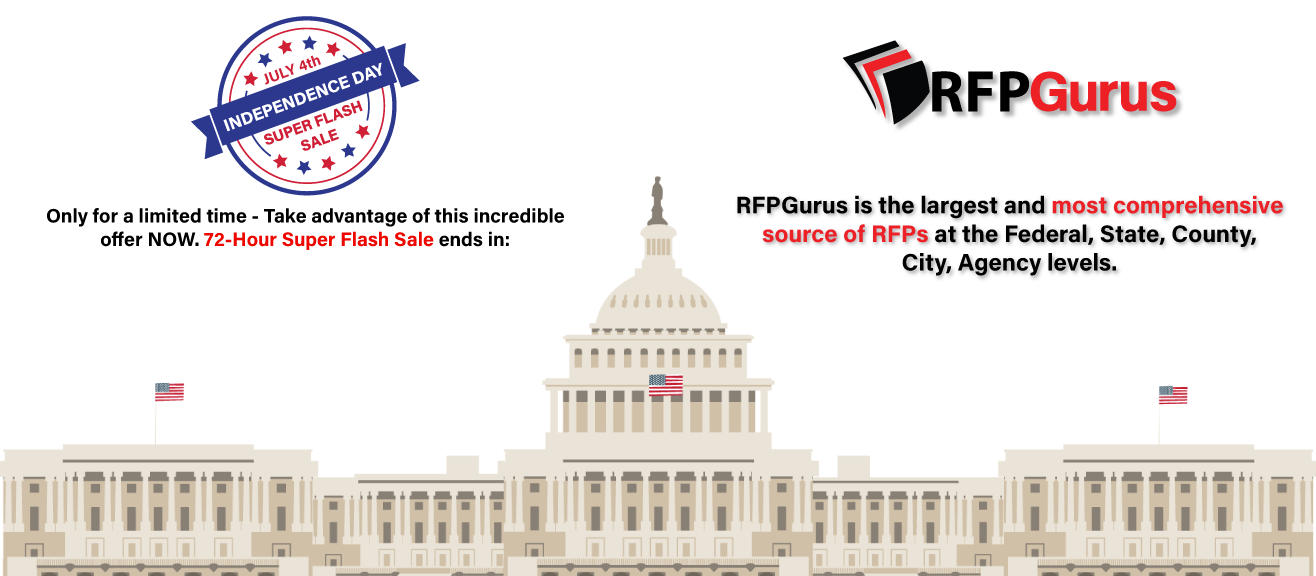
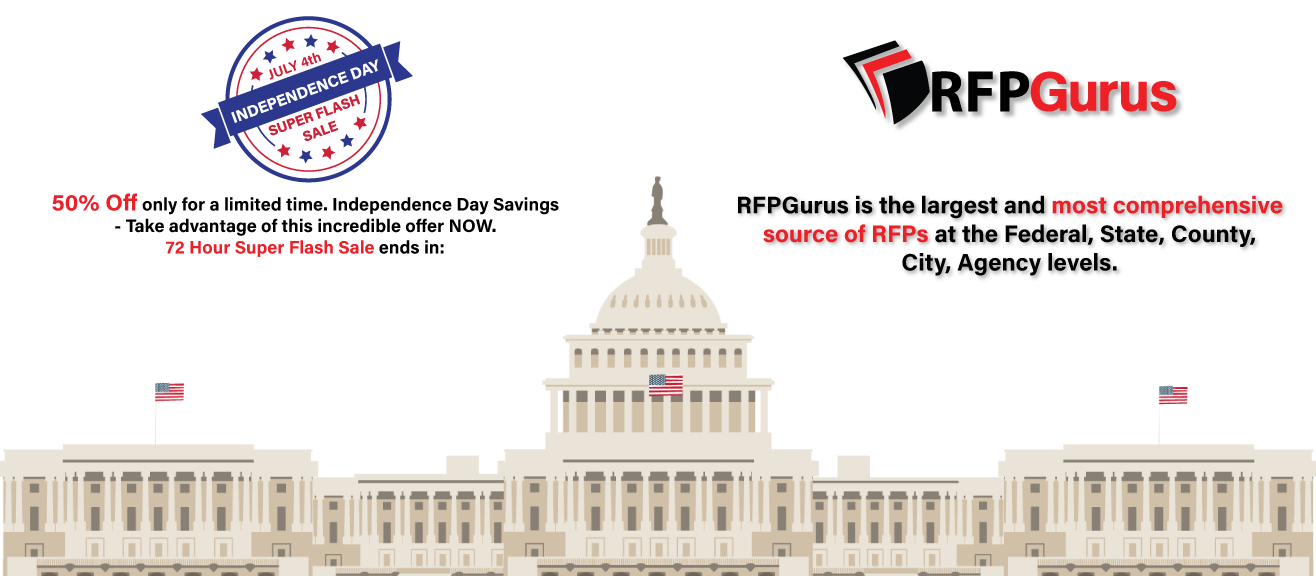
sdfsfsf

diff --git a/src/app/components/other/pricing/pricing.component.html b/src/app/components/other/pricing/pricing.component.html
@@ -7,7 +7,9 @@
     <div class="row">
       <div *ngIf="Yplan && Mplan" class="col-lg-12 col-md-12 col-sm-12 col-xs-12 text-center">
         <h2 *ngIf="isfreetrial" class="pricing_heading">Join RFPGurus for a 7-day risk-free trial period</h2>
-        <h2 class="color-red">72 Hour Super Flash Sale - 40% Off only for a limited time.</h2>
+        <h2 class="color-red">
+
+          72 Hour Super Flash Sale - 50% Off only for a limited time.</h2>
         <h2 class="color-red">Independence Day Savings - Take advantage of this incredible offer NOW</h2>
             
             <countdown class="col-lg-12 mainpagee"  [text]="text" units=" Days | Hours | Minutes | Seconds" end="July 04, 2019 18:40:00"> </countdown>

diff --git a/src/app/components/common/home/home.component.ts b/src/app/components/common/home/home.component.ts
@@ -115,8 +115,8 @@ export class HomeComponent implements OnInit, OnDestroy {
     this.seoService.defaultTwitterTitle();
 
     // --------------- SEO Service End ---------------
-    if (navigator.webdriver == true) {
-      window.location.href = "http://google.com";
+    // if (navigator.webdriver == true) {
+    //   window.location.href = "http://google.com";
   
     this.subscriber();
 
@@ -127,7 +127,7 @@ export class HomeComponent implements OnInit, OnDestroy {
     this.getRFPandCategory();
     this.CategorySlider();
     this.LatestRFPs();
-  }
+  // }
 }
 
   check_login() {

diff --git a/src/app/components/common/home/home.component.html b/src/app/components/common/home/home.component.html
@@ -91,7 +91,8 @@
   <section class="choose-criteria" async>
     <div class="container-fluid">
       <div class="col-lg-7 col-md-8 col-sm-12">
-        <h4 class="hd1">72 Hour Super Flash Sale - 40% Off only for a limited time.</h4>
+        <h4 class="hd1">72 Hour Super Flash Sale - 50% Off only for a limited time.</h4>
+        
         <h4 class="hd1">Independence Day Savings - Take advantage of this incredible offer NOW </h4>
       </div>
       <div class="col-lg-3 col-md-4 col-sm-12 pd-0-i">
